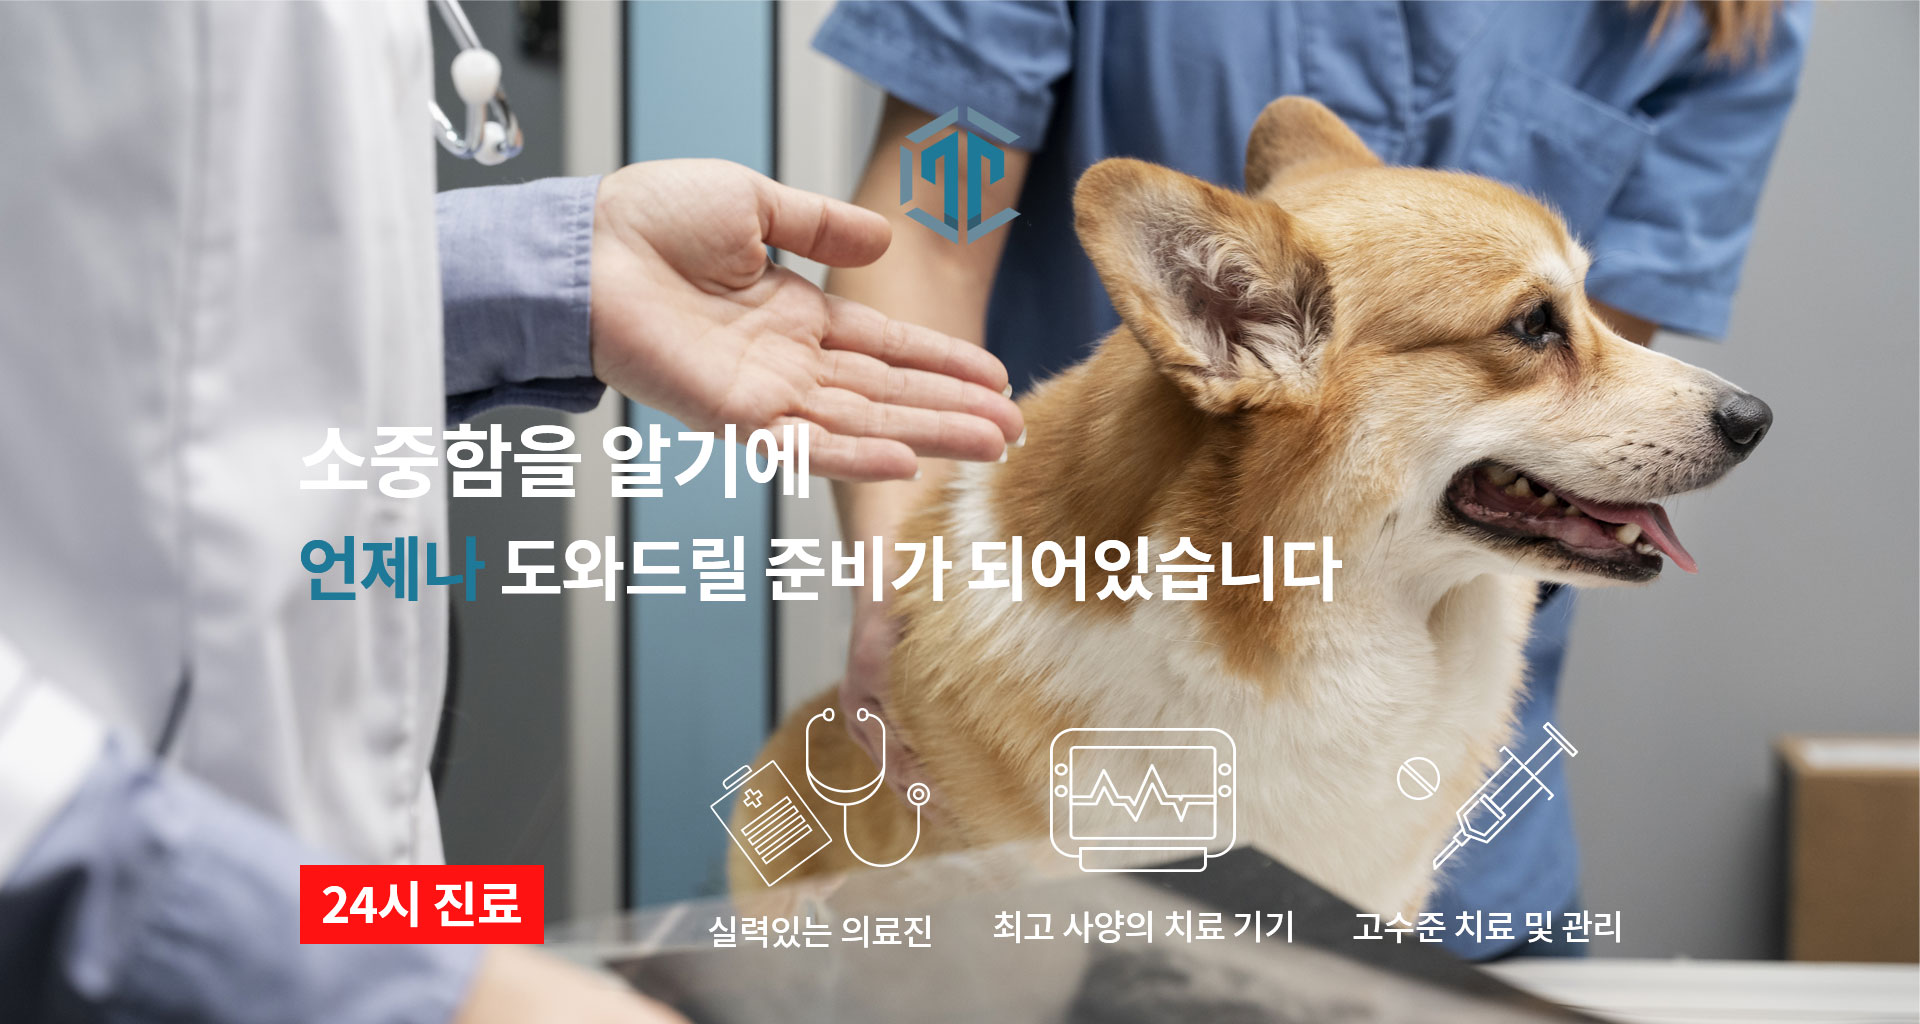
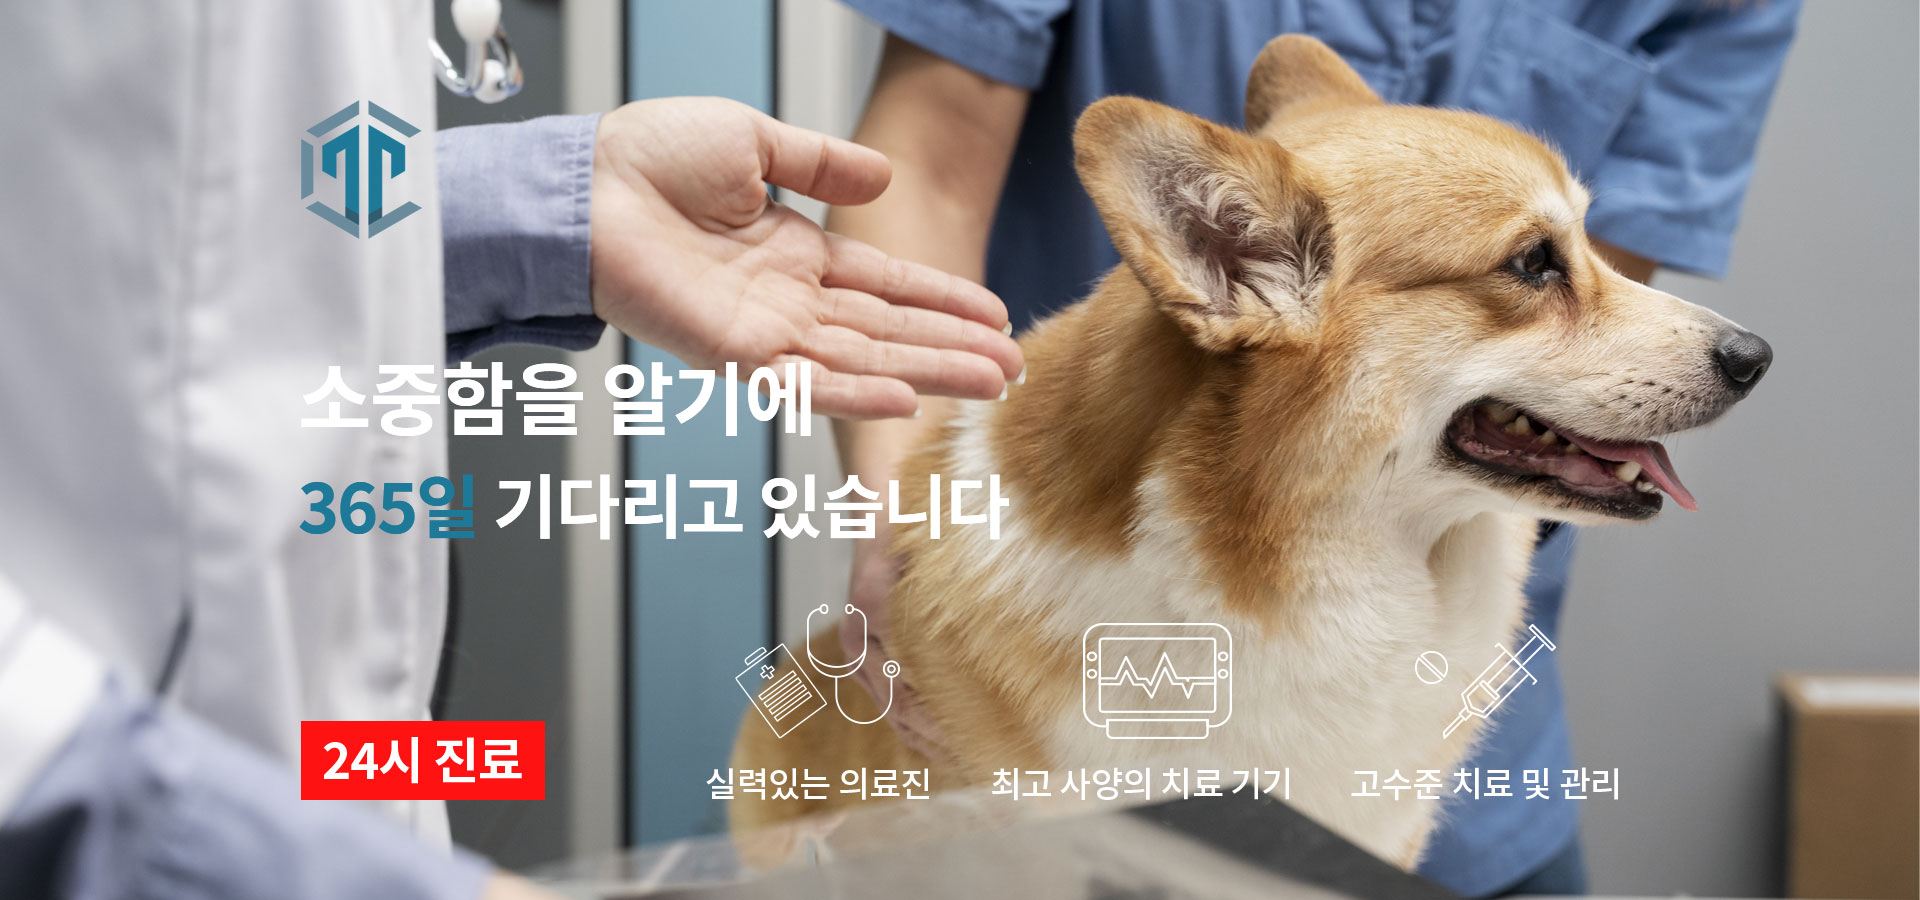
first

diff --git a/index.html b/index.html
@@ -3,9 +3,56 @@
 <head>
     <meta charset="UTF-8">
     <meta name="viewport" content="width=device-width, initial-scale=1.0">
-    <title>Document</title>
+    <title>24시 탑케어동물의료원</title>
+    <!-- favicon -->
+    <link rel="shortcut icon" href="./images/favicon.png" type="image/x-icon">
+    <link rel="icon" href="images/favicon.png" type="image/x-icon">
+    <!-- style -->
+    <link rel="stylesheet" href="./styles/reset.css">
 </head>
 <body>
-    
+    <!-- quick button -->
+
+    <!-- title bnr -->
+    <section class="title_bg">
+        <h1><img src="./images/logo.png" alt=""></h1>
+        <p>소중함을 알기에</p>
+        <p><span>365일</span> 기다리고 있습니다</p>
+        <div class="title_btm">
+            <img src="./images/24h.png" alt="24시 진료">
+            <img src="./images/title_icon_1.png" alt="실력있는 의료진">
+            <img src="./images/title_icon_2.png" alt="최고 사양의 치료 기기">
+            <img src="./images/title_icon_3.png" alt="고수준 치료 및 관리">
+        </div>
+    </section>
+    <!-- 안내 -->
+    <section class="info_1">
+        <div class="left">
+            <img src="./images/call_icon.png" alt="">
+            <p class="number">1666-7501</p>
+        </div>
+        <div class="mid">
+            <span>24시간 365일 연중무휴</span>
+            <dl class="time">
+                <dt>주간</dt>
+                <dd>오전 9시 ~ 오후 10시</dd>
+                <dt>응급</dt>
+                <dd>오후 10시 ~ 익일 오전 9시</dd>
+            </dl>
+        </div>
+        <p class="right">탑케어동물의료원은 <em>2차 진료 중심의 거점병원</em>으로,<br><span>최선의 진료, 최상의 보살핌, 최고의 사랑</span>과 함께 합니다. </p>
+    </section>
+    <!-- 병원 소개 -->
+    <section class="intro">
+        <div class="intro_title">
+            <div class="bg"></div>
+            <p>치료의 한계를 넘어, 삶의 새로운 가치를 위해 꾸준한 연구를 바탕으로 진료합니다.<br>최신식 의료장비, 최고의 의료진, 쾌적한 공간으로 보호자도 반려동물도 안심하고 내원하실 수 있습니다.</p>
+        </div>
+        <div class="intro_bnr_wrap">
+            <div class="intro_bnr_1">
+                
+            </div>
+        </div>
+    </section>
 </body>
 </html>

diff --git a/styles/reset.css b/styles/reset.css
@@ -1,0 +1,25 @@
+/* local or web(@import) 글꼴 작성위치 */
+@import url('https://fonts.googleapis.com/css2?family=Noto+Sans+KR:wght@400;500;600;700;800;900&display=swap');
+
+* {box-sizing:border-box;}
+html,body,
+h1,h2,h3,h4,h5,h6,p,blockquote,address,
+span,strong,em,q,sub,sup,del,s,a,img,
+div,header,nav,aside,main,footer,
+article,figure,figcaption,section,video,
+table,thead,tbody,tfoot,tr,th,td,ul,ol,li,dl,dt,dd,
+form,fieldset,legend,input,select,option,button,label,textarea {
+    font-family: 'Noto Sans KR', sans-serif;
+    margin:0; padding:0; line-height:1.0;
+    font-size:20px; font-style:normal; font-weight:normal;
+    text-decoration:none;
+}
+th {text-align:left;}
+table,tr,th,td {border-collapse:collapse;}
+ul,ol,li {list-style:none;}
+a {color:#000;}
+input {outline:none; border:0;}
+button {cursor:pointer; border:0;}
+fieldset {border:0;}
+/* HTML 태그에선 의미적으로 존재하나 CSS 디자인 결과에서 숨겨지는 대상 태그에 적용하는 공통 클래스 SKIP */
+.skip {display:none;}
